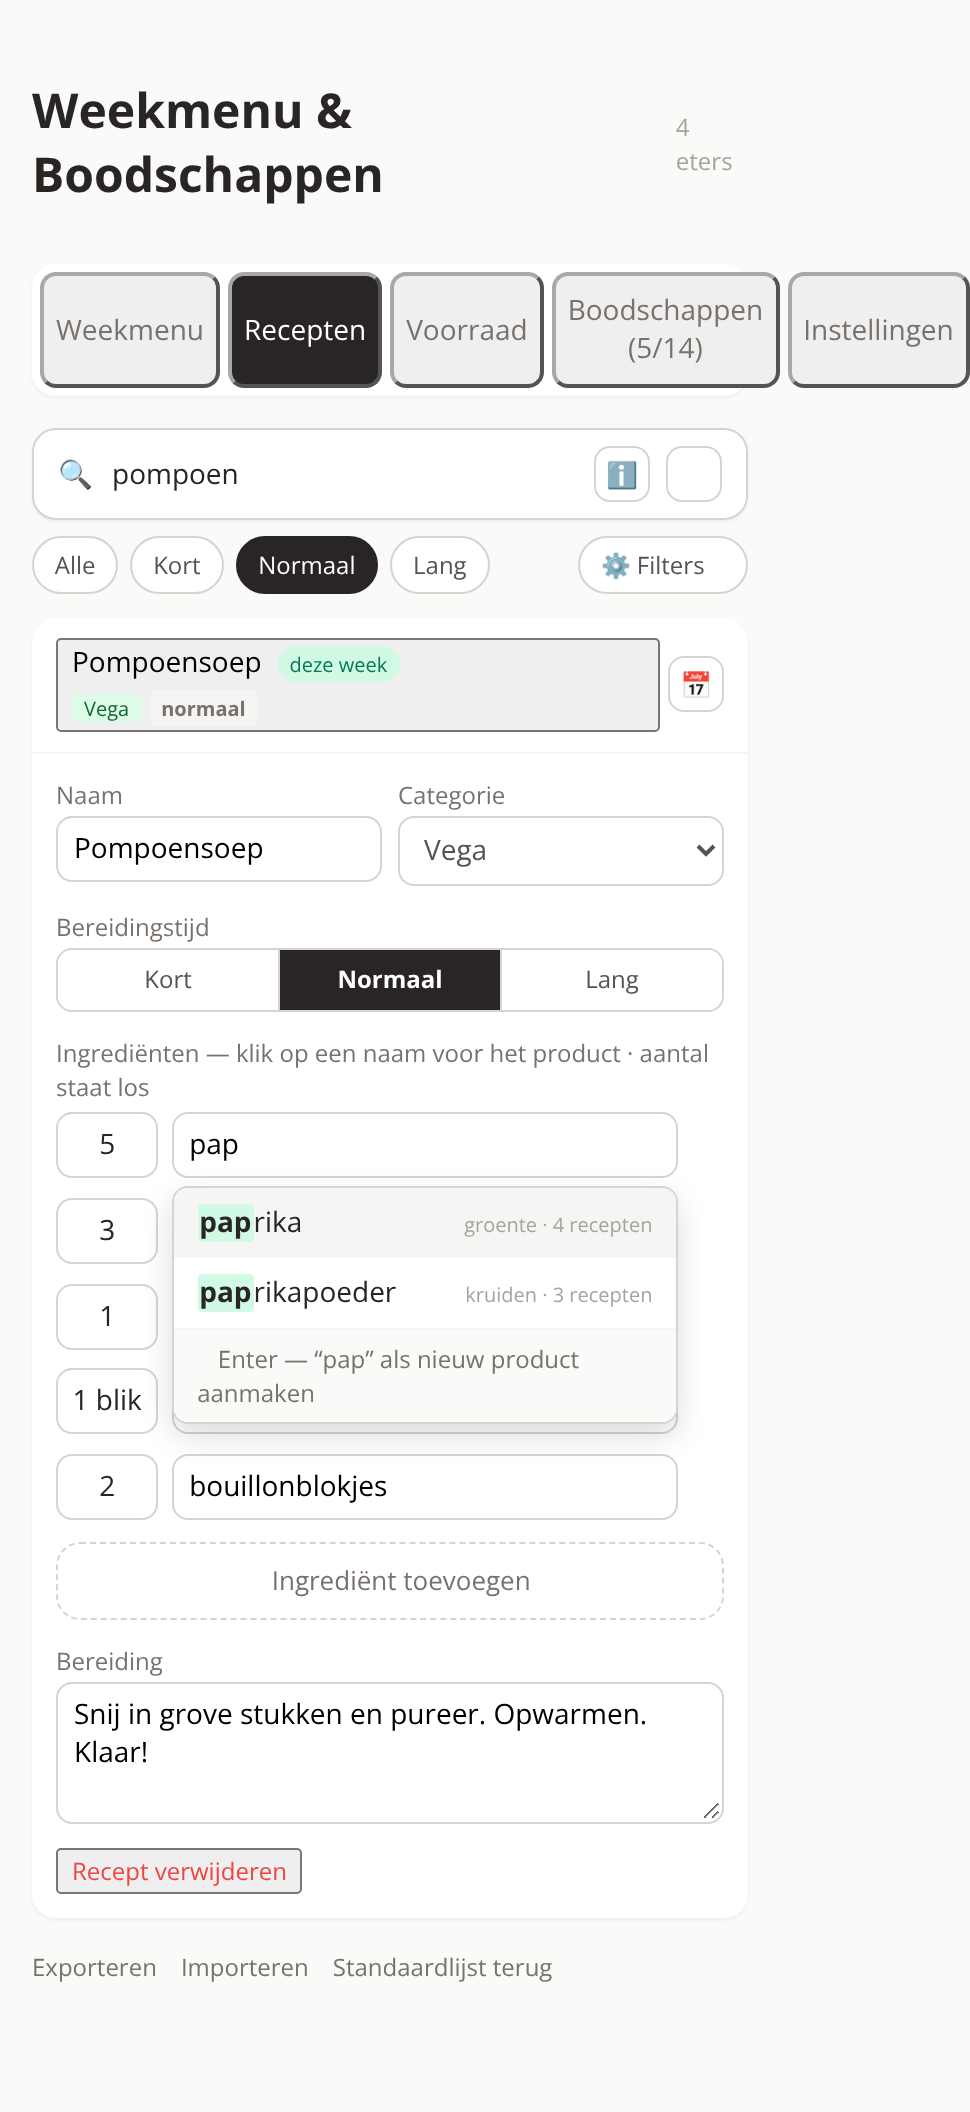
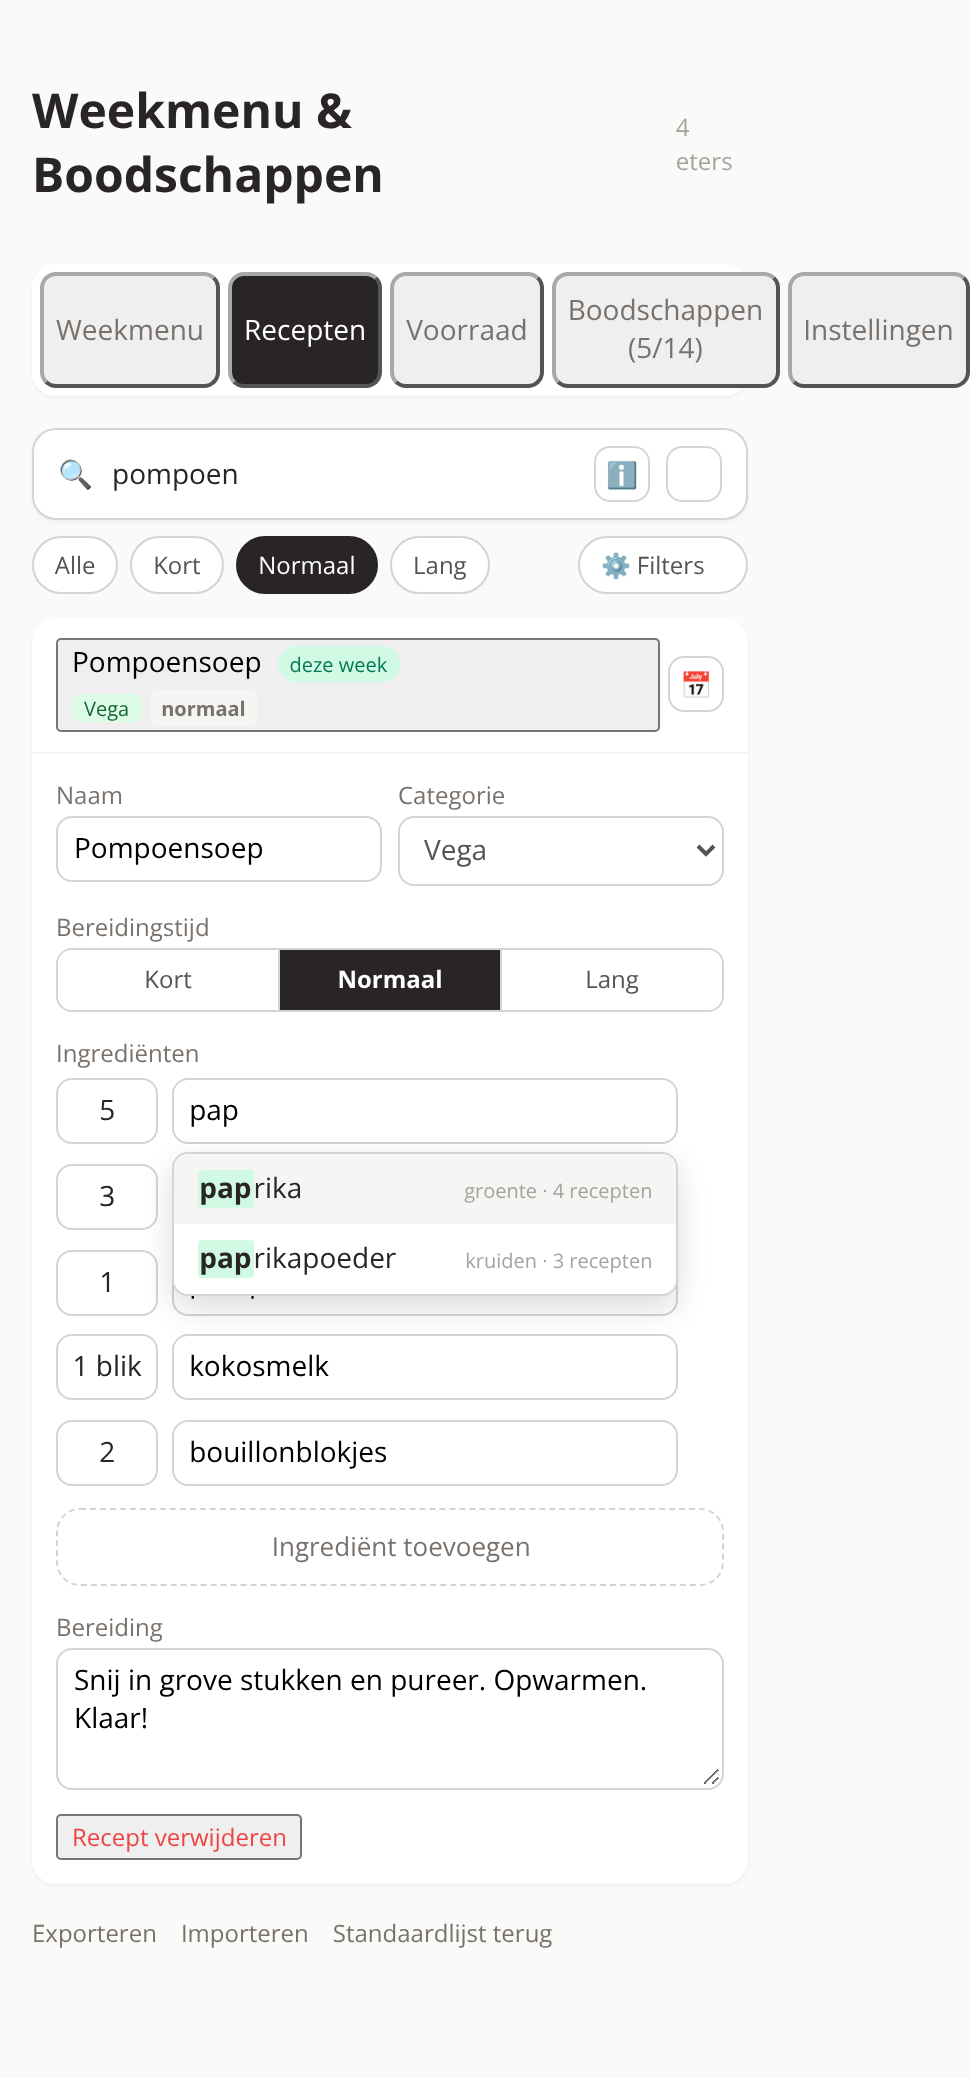
docs(ux): ronde 2 — goedgekeurde keuzes verwerkt + nieuwe mocks (15-19)
Ronde 1 approved per scherm: 1A (zonder hintteksten), 2B (inline kaart),
5A (klikbare naam), 7A (catalogus in Instellingen, incl. verwijderen per product).
Ronde 2: 15/16 (voorraad inline add-rij bovenaan/onderaan), 17 (boodschappen extra
inline rij naam+aantal, geen categorie), 18/19 (weekmenu: klik op gelockt gerecht
-> ingredienten bovenaan + bereiding, sheet vs inline). Nog steeds geen app-wijziging.

diff --git a/docs/ux/producten-catalogus/VOORSTEL.md b/docs/ux/producten-catalogus/VOORSTEL.md
@@ -1,123 +1,50 @@
 # UX-voorstel: productcatalogus — uniform producten opvoeren & verrijken (recepten / voorraad / boodschappen / weekmenu)
 
-**Status: ronde 1 — mocks ter goedkeuring per scherm; nog NIET verwerkt in SPECS/ADR/App.jsx.**
-Zodra per scherm een versie is goedgekeurd, volgen in deze PR (zelfde branch): `docs/SPECS.md`, nieuw ADR
-(volgend nummer na ADR-016), `tools/test-*.cjs`, `src/App.jsx` + `npm run build`/`npm run verify`,
-én in dezelfde PR de cache-bump (`CACHE_VERSION` in `sw.js` + `?v=` op alle 4 plekken in `index.html` — les PR #8/#9).
+**Status: ronde 1 goedgekeurd per scherm (zie "Ronde 1 — goedgekeurd"). Ronde 2-mocks voor de schermen 3, 4 en 6 staan in deze map (15–19) — daarop wacht ik nog een keuze. Daarna worden in deze PR verwerkt: `docs/SPECS.md`, nieuw ADR (volgend nummer na ADR-016), `tools/test-*.cjs`, `src/App.jsx` + `npm run build`/`npm run verify`, én in dezelfde PR de cache-bump (`CACHE_VERSION` in `sw.js` + `?v=` op alle 4 plekken in `index.html` — les PR #8/#9).**
 
 ## Aanleiding (wensen)
 
-1. **Één manier van werken** voor het opvoeren/verrijken van een **product** (verzamelnaam voor ingrediënt,
-   voorraadproduct en extra boodschap) op de tabs **Recepten, Voorraad, Boodschappen** (en Weekmenu):
-   je voert een product in **met aantal**; het product wordt opgeslagen in een **lokaal bewaarde productcatalogus**.
+1. **Één manier van werken** voor het opvoeren/verrijken van een **product** (verzamelnaam voor ingrediënt, voorraadproduct en extra boodschap) op de tabs **Recepten, Voorraad, Boodschappen** (en Weekmenu): je voert een product in **met aantal**; het product wordt opgeslagen in een **lokaal bewaarde productcatalogus**.
 2. **Autocomplete** terwijl je een productnaam intikt: bestaande producten uit de catalogus verschijnen.
-3. Na het opvoeren kun je op de **naam van het product klikken** → meer info + wijzigingen (categorie,
-   voorkeurssupermarkt koppelen/ontkoppelen).
-4. **Migratie**: ingrediënten zijn nu strings in recepten → worden producten. Dubbele producten vermijden
-   (let op enkelvoud/meervoud: `1 paprika` en `2 paprika's` = één product). **Aantallen blijven per
-   recept/voorraad apart opgeslagen.**
-5. Categorie-voorstel: zie onderaan.
+3. Na het opvoeren kun je op de **naam van het product klikken** → meer info + wijzigingen (categorie, voorkeurssupermarkt koppelen/ontkoppelen).
+4. Ingrediënten zijn nu strings in recepten → worden producten. Dubbele producten vermijden (enkelvoud/meervoud: `1 paprika` en `2 paprika's` = één product). **Aantallen blijven per recept/voorraad apart opgeslagen.**
+5. Producten uit de catalogus moeten **verwijderbaar** zijn (typefouten bij het opvoeren herstellen).
+6. **Weekmenu (ronde 2, los van de catalogus)**: klik op een **gelockt gerecht** → ingrediënten en bereidingswijze in beeld; **ingrediënten bovenaan** (verzamelen), daarna de bereiding lezen om te gaan koken.
 
-Per te wijzigen scherm zijn er **2 versies** (mock-screenshots in deze map, gerenderd in de eigen huisstijl
-van de app — `styles.css` inline — op 390×844, datum = vr 20-11-2026, weekstart zaterdag, recepten uit
-`BASE_RECIPES`):
+Alle mocks zijn gerenderd in de eigen huisstijl van de app (`styles.css` inline) op 390×844; datum vr 20-11-2026, weekstart zaterdag, recepten uit `BASE_RECIPES`.
 
-## 1. Recepten — ingrediënt opvoeren in het bewerkformulier
+## Ronde 1 — goedgekeurd (2026-11-20)
 
-- `01-recept-ingredient-toevoegen-versie-A-inline-rijen.png` — **inline rijen** in het recept: per ingrediënt
-  een los **aantalveld** + **naamveld met autocomplete** (bestaand product uit de catalogus, gemarkeerde match;
-  Enter zonder match = nieuw product) + ✕. Onderaan "＋ Ingrediënt toevoegen".
-- `02-recept-ingredient-toevoegen-versie-B-bottomsheet.png` — **bottom sheet** "Ingrediënt toevoegen":
-  productveld met autocomplete + aantal-stapper + knop "Toevoegen aan recept"; de lijst erachter blijft
-  zichtbaar (gedimd).
+1. **Recepten — ingrediënt toevoegen: versie A** (inline rijen: los aantalveld + naamveld met autocomplete + ✕), maar **zonder** de beschrijvende tekst ("klik op een naam…", "aantal staat los") en **zonder** de Enter-foot in de autocomplete → mock `01-…-versie-A-inline-rijen.png` aangepast.
+2. **Product-detail: versie B** — inline kaart die uitklapt onder de rij (`04-product-detail-versie-B-inline-kaart.png`): naam, categorie, winkelvoorkeur, "n× gebruikt", Opslaan/Verwijderen.
+3. **Voorraad — product toevoegen: volledig inline zoals 1A** → ronde 2, mocks 15/16 (keuze bovenaan/onderaan).
+4. **Boodschappen — extra artikel: idem als 1A** (inline rij: naam + aantal; **géén categorie bij het opvoeren** — die stel je later in via het product; **aantal is wel altijd nodig**) → ronde 2, mock 17.
+5. **Boodschappenlijst: versie A** — productnaam zelf klikbaar (groen, onderstreept) → product-detail (`09-…-versie-A-naam-klikbaar.png`). Meervoudsvorm: ja, zonder AI — zie "Meervoud" onder Modelwijzigingen.
+6. **Weekmenu**: de ronde-1 mocks (chips/sheet per dag) waren **geen** verbetering — geschrapt. Nieuwe wens (punt 6 boven) → ronde 2, mocks 18/19.
+7. **Productcatalogus: versie A** — sectie in **Instellingen** (`13-…-versie-A-instellingen.png`), nu met **✕ per product** (verwijderen altijd mogelijk; koppelingen vallen terug op vrije tekst).
 
-## 2. Product-detail — klik op een productnaam (vanuit élke tab hetzelfde)
+Ronde-1 mocks (ter referentie): `01`–`14` (scherm 2 = product-detail, scherm 5 = lijstrij, scherm 7 = catalogus; versies A/B per scherm zoals hierboven).
 
-- `03-product-detail-versie-A-bottomsheet.png` — **bottom sheet "Product"**: naam (bewerkbaar), categorie als
-  chips, voorkeurssupermarkt als chips (geen/AH/Jumbo/Lidl), "n× gebruikt" (recepten/voorraad), knoppen
-  **Opslaan** + **Uit catalogus verwijderen**.
-- `04-product-detail-versie-B-inline-kaart.png` — **inline kaart** die uitklapt onder de rij in de lijst:
-  zelfde velden (categorie als select, winkel als chips), kleinere knoppen.
+## Ronde 2 — nieuwe mocks (keuze gevraagd)
 
-## 3. Voorraad — product toevoegen in een locatie
-
-- `05-voorraad-product-toevoegen-versie-A-uniform.png` — **zelfde invoer als in een recept** (uniform):
-  productnaam met autocomplete + gewenste-voorraad-stapper + Toevoegen; hint "categorie & winkel stel je in
-  door op de productnaam te klikken". Productrij: naam als klikbare link + categorie/winkel als subtekst +
-  have −/+ en "gewenst n".
-- `06-voorraad-product-toevoegen-versie-B-inline-formulier.png` — **alle velden direct** in het inline
-  formulier (naam + autocomplete, categorie-select, supermarkt-select, gewenst-stapper) — zoals het huidige
-  formulier, uitgebreid met autocomplete.
-
-## 4. Boodschappen — extra artikel toevoegen
-
-- `07-boodschappen-extra-versie-A-inline-autocomplete.png` — **bestaande input-rij uitgebreid** met
-  autocomplete uit de catalogus (bestaand product = categorie/winkel worden overgenomen; klik in de lijst op
-  de naam om te wijzigen); categorie-select ernaast blijft.
-- `08-boodschappen-extra-versie-B-bottomsheet.png` — **bottom sheet "Extra boodschap"**: product met
-  autocomplete + categorie-chips + winkel-chips + Toevoegen.
-
-## 5. Boodschappenlijst — hoe ziet een product-rij eruit / hoe kom je bij het product?
-
-- `09-boodschappen-lijst-versie-A-naam-klikbaar.png` — de **naam zelf is klikbaar** (groen, onderstreept) →
-  opent het product-detail (scherm 2); checkbox, datumchip, winkel-chip en ✕ (alleen extra artikelen) blijven.
-- `10-boodschappen-lijst-versie-B-categorie-subtekst.png` — rij toont **categorie als subtekst** onder de naam
-  + een ℹ-knop rechts → opent het product-detail.
-
-## 6. Weekmenu — ingrediënten van een gerecht zien (per dag)
-
-- `11-weekmenu-ingredienten-versie-A-chips.png` — onder de dagregel van een recept staan de ingrediënten als
-  **klikbare product-chips** (aantal + productnaam) → klik opent product-detail.
-- `12-weekmenu-ingredienten-versie-B-sheet.png` — dagregel blijft compact; extra 🧺-knop per dag opent een
-  **sheet "Ingrediënten — <gerecht>"** met rijen (aantal + klikbare productnaam + datumchip bij
-  groente/zuivel).
-
-## 7. Productcatalogus beheren (overzicht van alle producten)
-
-- `13-productcatalogus-versie-A-instellingen.png` — sectie **"Productcatalogus" op de Instellingen-tab**:
-  zoekveld + lijst (naam klikbaar, categorie-chip, winkel-chip, "n× gebruikt", subtekst met de samengevoegde
-  enkelvoud/meervoud-vormen zoals `uit "1 paprika" · "2 paprika's" · "5 paprika's"`).
-- `14-productcatalogus-versie-B-boodschappen-paneel.png` — zelfde paneel als **inline paneel op de
-  Boodschappen-tab** (naast het bestaande ⚙-categorieën-paneel).
+- `15-voorraad-product-toevoegen-versie-C-inline-bovenaan.png` — in de uitgeklapte locatie staat de add-rij **bovenaan** de productlijst: naamveld met autocomplete + "gewenst"-stapper + ✓/✕ (zelfde stijl als ingrediënt-rijen in een recept).
+- `16-voorraad-product-toevoegen-versie-D-inline-onderaan.png` — zelfde inline rij, maar **onderaan** (op de plek van "＋ Product toevoegen").
+- `17-boodschappen-extra-versie-C-inline-rij.png` — extra artikel als **inline rij bovenaan de lijst**: naam met autocomplete + aantal + Toevoegen; géén categorie-veld (categorie/winkel later via klik op de naam).
+- `18-weekmenu-gelockt-gerecht-versie-A-bottomsheet.png` — klik op gelockt gerecht → **bottom sheet**: bovenaan "Ingrediënten" (aantal + klikbare productnaam + datumchip), dááonder "Bereiding", knop Klaar.
+- `19-weekmenu-gelockt-gerecht-versie-B-inline.png` — klik op gelockt gerecht → klapt **inline** onder de dagregel open: eerst ingrediënt-chips, dan de bereiding.
 
 ## Modelwijzigingen (gevolg, na goedkeuring in een nieuw ADR)
 
-- **Productcatalogus** `products: [{ id, name, cat, market? }]` in localStorage-sleutel `weekmenu-app-v1`
-  (lokaal per huishouden, ADR-009/010; generieke defaults in de repo, household-data lokaal).
-- **Recept-ingrediënt** wordt `{ pid, qty }`: `qty` = het losse aantal ("5", "200 g", "1 blik"), de productnaam
-  komt uit de catalogus. Weergave in recept/lijst: `qty + " " + productnaam` (dus "2 paprika").
-- **Dedup (`productKey`)**: lowercase, trim, dubbele spaties eruit, leading hoeveelheid/verpakking weg
-  (`2 `, `1 blik `, `pak `, `zak `…), trailing `'s` weg, dan trailing `en`/`s` weg als de stam ≥ 4 tekens is
-  (niet eindigend op ss/us/is). Dus `1 paprika` en `2 paprika's` → beide product **paprika**;
-  `sperziebonen` → `sperzieboon`. Canonieke (weergave)naam = eerste lettercombinatie zoals ingevoerd.
-- **Migratie bij het laden** (generiek, zoals ADR-005/015): elke oude ingrediënt-string wordt gesplitst in
-  `qty` (leading getal + eenheid) + naam; naam → `productKey` → bestaand product of nieuw product in de
-  catalogus (zonder categorie → "overig"). Voorraadproducten en extra artikelen koppelen idem aan
-  `pid`; hun `cat`/`market` verhuist naar het product (ADR-015 keeps working: de boodschappenlijst sorteert op
-  categorie-volgorde en matcht nu via `productKey` i.p.v. `priceKey`).
-- **Aantallen** blijven per recept (`qty`) en per voorraad (`have`/`want`) apart opgeslagen — het product zelf
-  heeft geen aantal.
-- Product verwijderen uit catalogus: koppelingen in recepten/voorraad/extra's vallen terug op de vrije tekst
-  (oude label), het product zelf is weg.
+- **Productcatalogus** `products: [{ id, name, cat, market? }]` in localStorage-sleutel `weekmenu-app-v1` (lokaal per huishouden, ADR-009/010; generieke data in de repo).
+- **Recept-ingrediënt** wordt `{ pid, qty }`: `qty` = los aantal ("5", "200 g", "1 blik"); de productnaam komt uit de catalogus. Weergave: `qty + " " + productnaam` (met juiste meervoud, zie onder).
+- **Dedup (`productKey`)**: lowercase, trim, dubbele spaties eruit, leading hoeveelheid/verpakking weg (`2 `, `1 blik `, `pak `, `zak `…), trailing `'s` weg, dan trailing `en`/`s` weg als de stam ≥ 4 tekens is (niet eindigend op ss/us/is). Dus `1 paprika` en `2 paprika's` → beide product **paprika**; `sperziebonen` → `sperzieboon`. Bij het intypen matcht autocomplete op `productKey`, dus het juiste product staat meteen in beeld. Geen alias-lijst nodig.
+- **Geen automatische migratie van bestaande lokale data** — dat is de verantwoordelijkheid van de gebruiker. Wel wordt de catalogus bij eerste load gevuld/ontdubbeld uit de nu al bekende ingrediënten (`BASE_RECIPES`, generiek in de repo). Oude string-ingrediënten in lokaal opgeslagen recepten blijven als **vrije tekst** zichtbaar (vallen niet automatisch aan een product); opnieuw intypen koppelt via autocomplete.
+- **Product verwijderen uit de catalogus** kan altijd (ook bij gebruik): koppelingen in recepten/voorraad/extra's vallen terug op de vrije tekst. Handig bij typefouten.
+- **Meervoud zonder AI**: de productnaam is het enkelvoud (canoniek); weergave = `qty == 1` → enkelvoud, anders meervoud via een ingebouwde regel (eindigt op klinker/a → `+'s`; anders `+en`; kleine uitzonderingenlijst alléén voor de weergave: ei→eieren, ui→uien, tomaat→tomaten, aardappel→aardappelen…). Dus "5 paprika's" bij product "paprika" — puur regels, geen AI.
+- **Categorie-voorstel**: hergebruik `settings.shopCats` (ADR-015) als productcategorie — "waar in de supermarkt", volgorde = boodschappenlijst-volgorde, beheer op de Boodschappen-tab (⚙); product zonder categorie → "overig" achteraan. Categorie/winkel van een product is overal hetzelfde en te wijzigen via het product-detail.
 
-## Categorie-voorstel
+## Open vragen ronde 2
 
-Hergebruik de bestaande **`settings.shopCats`** (ADR-015) als categorie van een product — een categorie zegt
-**waar het in de supermarkt ligt** en bepaalt de volgorde op de boodschappenlijst:
-fruit, groente, vlees/vis, kruiden, conserven, (maaltijd)saus, broodbeleg, zuivel, diepvries, lekkers, brood.
-Beheer (toevoegen/verwijderen/volgorde) blijft op de **Boodschappen-tab** (⚙). Product zonder categorie →
-**"overig"**, staat achteraan op de lijst. De categorie van een product is overal hetzelfde (recept,
-voorraad, boodschappen, weekmenu) en te wijzigen via het product-detail.
-
-## Open vragen / knopen om door te hakken
-
-- Scherm 1: inline rijen (A) of bottom sheet (B)?
-- Scherm 2: product-detail als sheet (A) of inline kaart (B)?
-- Scherm 3: uniform (A) of alle velden direct in het formulier (B)?
-- Scherm 4: inline met autocomplete (A) of bottom sheet (B)?
-- Scherm 5: klikbare naam (A) of categorie-subtekst + ℹ (B)?
-- Scherm 6: chips onder de dag (A) of sheet via 🧺 (B)?
-- Scherm 7: catalogus in Instellingen (A) of als paneel op de Boodschappen-tab (B)?
-- Meervouds-dedup: bovenstaande regels dekken `paprika/paprika's`, `boon/bonen`; `ei/eieren` en
-  `tomaat/tomaten` matchen niet automatisch — kleine alias-lijst, of accepteren we dat?
-- Scherm 2: mag een product ook een **eigen_photo/notitie** krijgen, of alleen naam/categorie/winkel?
+- Scherm 3 (voorraad): inline add-rij **bovenaan** (15) of **onderaan** (16)?
+- Scherm 4 (boodschappen extra): inline rij bovenaan de lijst (17) ok?
+- Scherm 6 (weekmenu, gelockt gerecht): **bottom sheet** (18) of **inline uitklappen** (19)? En klik je op het gerecht zelf (dag/titel) of op het 🔒-icoon?
